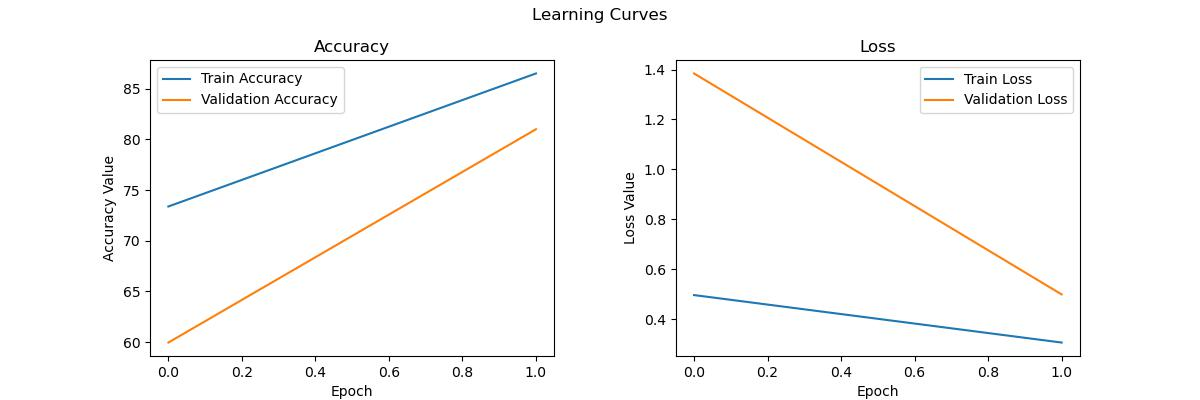
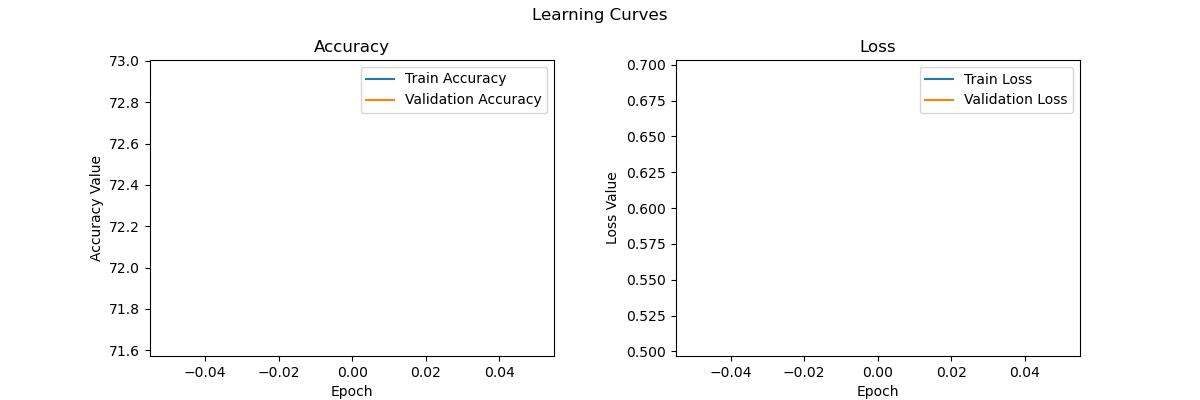
Debug - full pipeline working

diff --git a/Train.py b/Train.py
@@ -7,23 +7,25 @@ from Plotter import Plotter
 device = "cuda" if torch.cuda.is_available() else "cpu"
 print("Device:", device, "\n")
 
-
 arg_dict = {"model name": "Final_model",
-            "epochs": 2,
+            "epochs": 20,
             "batch_size": 32,
             "lr": 1e-5,
             "weight_decay": 0.4,
             "num_classes": 2
            }
 
-plotter = Plotter(model_name=arg_dict['model name'])
-train, validation = random_split(DataSet(), lengths=(0.85, 0.15))
+train, validation, test = random_split(DataSet(), lengths=(0.8, 0.15, 0.05))
 train_set = DataLoader(train, batch_size=arg_dict['batch_size'], shuffle=True)
 validation_set = DataLoader(validation, batch_size=arg_dict['batch_size'], shuffle=True)
+test_set = DataLoader(test, batch_size=arg_dict['batch_size'], shuffle=True)
 
-dataset_sizes = {'train':len(train), 'validation':len(validation)}
-loaders = {'train':train_set, 'validation':validation_set}
+dataset_sizes = {'train':len(train), 'validation':len(validation), 'test':len(test)}
+loaders = {'train':train_set, 'validation':validation_set, 'test': test_set}
+# print(dataset_sizes)
+
 train_n_evaluate = Train_n_evaluate(loaders, dataset_sizes, device)
+plotter = Plotter(model_name=arg_dict['model name'])
 
 model = Model().to(device)
 
@@ -32,11 +34,10 @@ optimizer = torch.optim.Adam(model.parameters(), lr = arg_dict["lr"], weight_dec
 
 model, losses, accuracies = train_n_evaluate.train_model(model, criterion, optimizer, arg_dict["epochs"], scheduler=None)
 plotter.plot_learnining_curves(losses, accuracies)
-# actuals, predictions = train_n_evaluate.evaluate_model(model, dataset="validation")
-# plotter.plot_confusion_matrix(actuals, predictions, arg_dict["num_classes"])
+actuals, predictions = train_n_evaluate.evaluate_model(model, dataset="test")
+plotter.plot_confusion_matrix(actuals, predictions, arg_dict["num_classes"])
+
 # plotter.plot_lr(scheduler.get_lr_schedule())
 
-# torch.save(model, f"/home/gevindu/Gevindu/Models/{arg_dict['model name']}.pth")
-# print(f"\nSaved to /home/gevindu/Gevindu/Models/{arg_dict['model name']}.pth")
-
-# print(model)
+torch.save(model, f"/home/gevindu/FYP-Drone-Classification/Saved models/{arg_dict['model name']}.pth")
+print(f"\nSaved to /home/gevindu/FYP-Drone-Classification/Saved models/{arg_dict['model name']}.pth")

diff --git a/Train_n_evaluate.py b/Train_n_evaluate.py
@@ -66,13 +66,13 @@ class Train_n_evaluate:
         return model, losses, accuracies
 
     def evaluate_model(self, model, dataset):
-        global device
         model.eval()
         predictions, actuals = [], []
 
-        for inputs, labels in self.loaders[dataset]:
+        for doppler, rcs, acoustic, labels in tqdm(self.loaders[dataset]):
+            doppler, rcs, acoustic = doppler.to(self.device), rcs.to(self.device), acoustic.to(self.device)
             with torch.no_grad():
-                outputs = model(inputs.float().to(self.device))
+                outputs = model(doppler, rcs, acoustic)
                 _, preds = torch.max(outputs, dim=1)
 
             preds = preds.to("cpu").numpy()
@@ -85,7 +85,7 @@ class Train_n_evaluate:
         f1 = f1_score(actuals, predictions, average="weighted", zero_division=0)
 
         print(
-            "\nRe-evaluated on {} set\nAccuracy: {}%, f1-score: {}".format(
+            "\nEvaluated on {} set\nAccuracy: {}%, f1-score: {}".format(
                 dataset, round(acc, 5) * 100, round(f1, 5)
             )
         )
